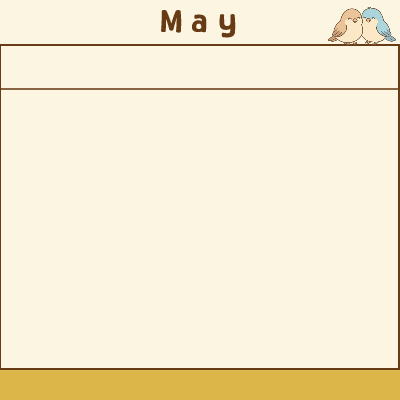
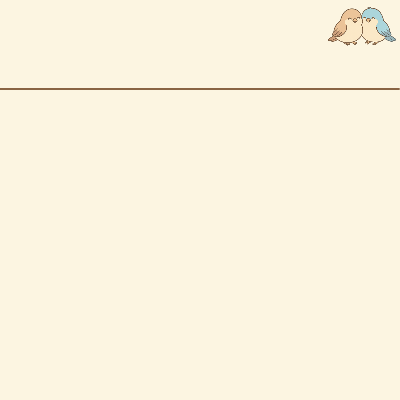
출석현황 수정

Changed region(s): [[0.0, 0.03, 1.0, 1.0]]

diff --git a/src/main/java/attendance/ui/FrameAttendanceStats.java b/src/main/java/attendance/ui/FrameAttendanceStats.java
@@ -20,13 +20,18 @@ public class FrameAttendanceStats extends JFrame {
     public FrameAttendanceStats(AttendanceStatsService statsService, String username) {
         this.statsService = statsService;
         this.username = username;
+        try {
+            ImageIcon icon = new ImageIcon(getClass().getResource("/img/출석현황/bg_brown.png"));
+            bg = new JLabel(icon);
+        } catch(Exception e) {
+            e.printStackTrace();
+        }
 
         setTitle("출석현황");
-        setSize(400, 400);
+        setSize(400, 430);
         setLocationRelativeTo(null);
         setDefaultCloseOperation(DISPOSE_ON_CLOSE);
-        getContentPane().setBackground(new Color(255, 255, 255));
-        getContentPane().setVisible(true);
+        setContentPane(bg);
         initUI();
     }
 
@@ -48,7 +53,7 @@ public class FrameAttendanceStats extends JFrame {
         JLabel monthLabel = new JLabel(monthText);
         monthLabel.setFont(monthLabel.getFont().deriveFont(Font.BOLD));
         monthPanel.add(monthLabel, SwingConstants.CENTER);
-        monthPanel.setBackground(new Color(255, 255, 255));
+        monthPanel.setOpaque(false);
         add(monthPanel, BorderLayout.NORTH);
 
         List<LocalDate> dateList = statsService.getMonthlyAttendance(username, formatted);
@@ -56,7 +61,7 @@ public class FrameAttendanceStats extends JFrame {
 
         // ✅ CalendarPanel에 출석 날짜 전달
         CalendarPanel calendarPanel = new CalendarPanel(yearMonth, attendanceSet);
-        calendarPanel.setBackground(new Color(255, 255, 255));
+        calendarPanel.setOpaque(false);
         add(calendarPanel, BorderLayout.CENTER);
 
         // 닫기 버튼

diff --git a/src/main/java/attendance/ui/CalendarPanel.java b/src/main/java/attendance/ui/CalendarPanel.java
@@ -28,23 +28,12 @@ public class CalendarPanel extends JPanel {
             Image img = new ImageIcon(getClass().getResource("/img/출석현황/check.png")).getImage();
             Image scaled = img.getScaledInstance(35, 35, Image.SCALE_SMOOTH);
             checkIcon = new ImageIcon(scaled);
-            URL imageURL = getClass().getResource("/img/출석현황/bg_brown.png");
-            background = ImageIO.read(imageURL);
         } catch (Exception e) {
             System.err.println("이미지 로드 실패: " + e.getMessage());
         }
         setLayout(new GridLayout(0, 7)); // 7열 (일~토)
 
         drawCalendar();
-    }
-
-    @Override
-    protected void paintComponent(Graphics g) {
-        super.paintComponent(g);
-        if (background != null) {
-            // Draw image to fill the entire panel
-            g.drawImage(background, 0, 0, getWidth(), getHeight(), this);
-        }
     }
 
     private void drawCalendar() {
